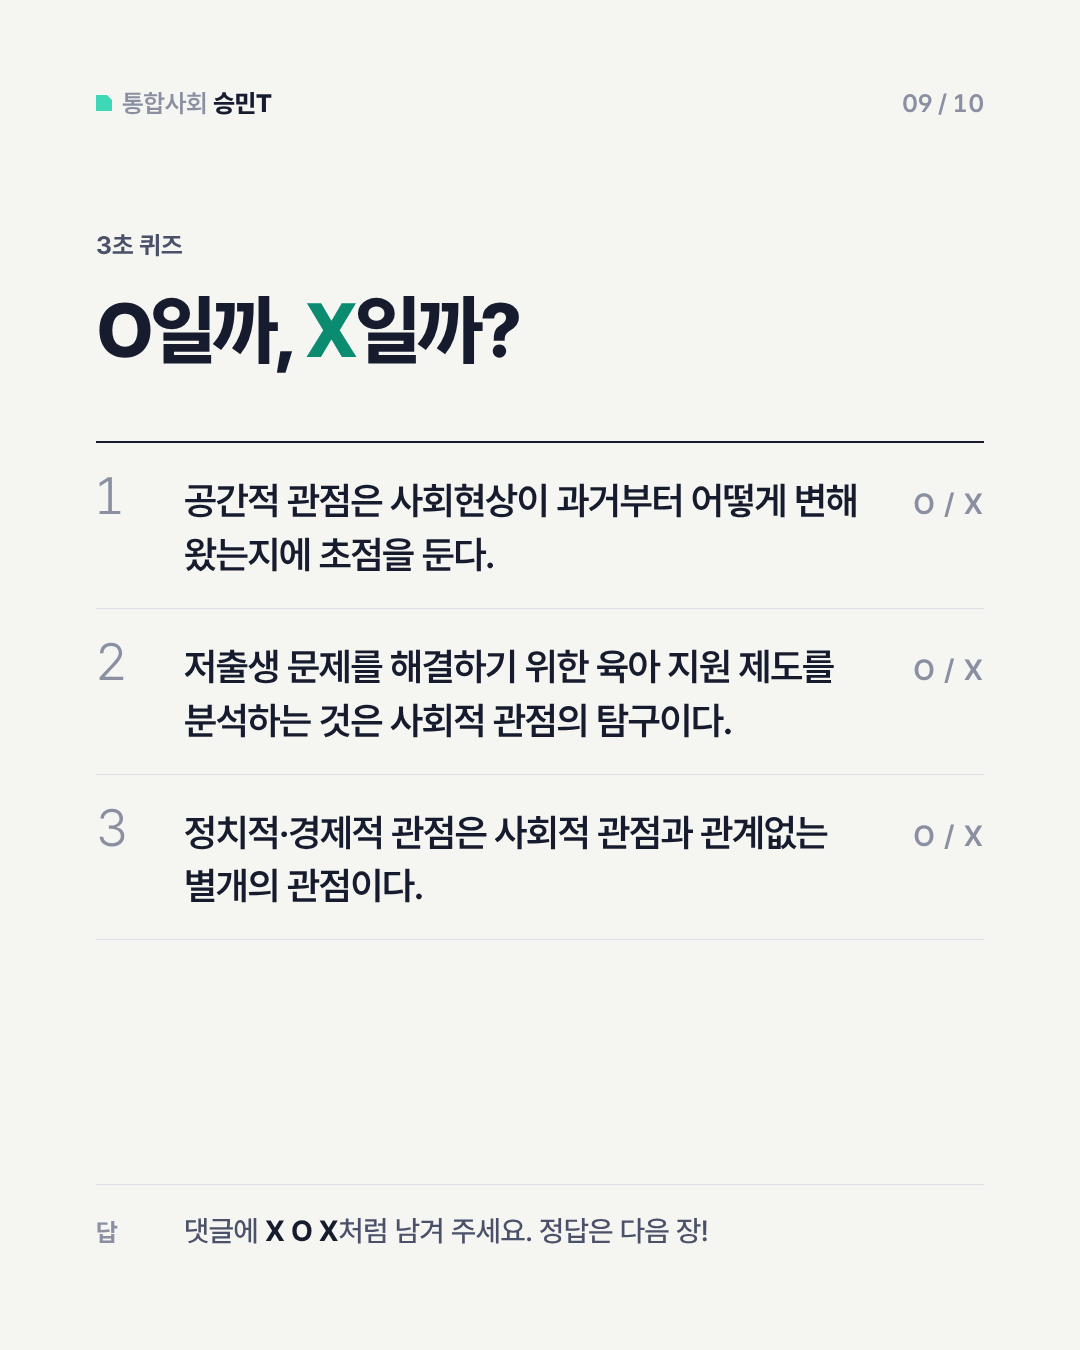
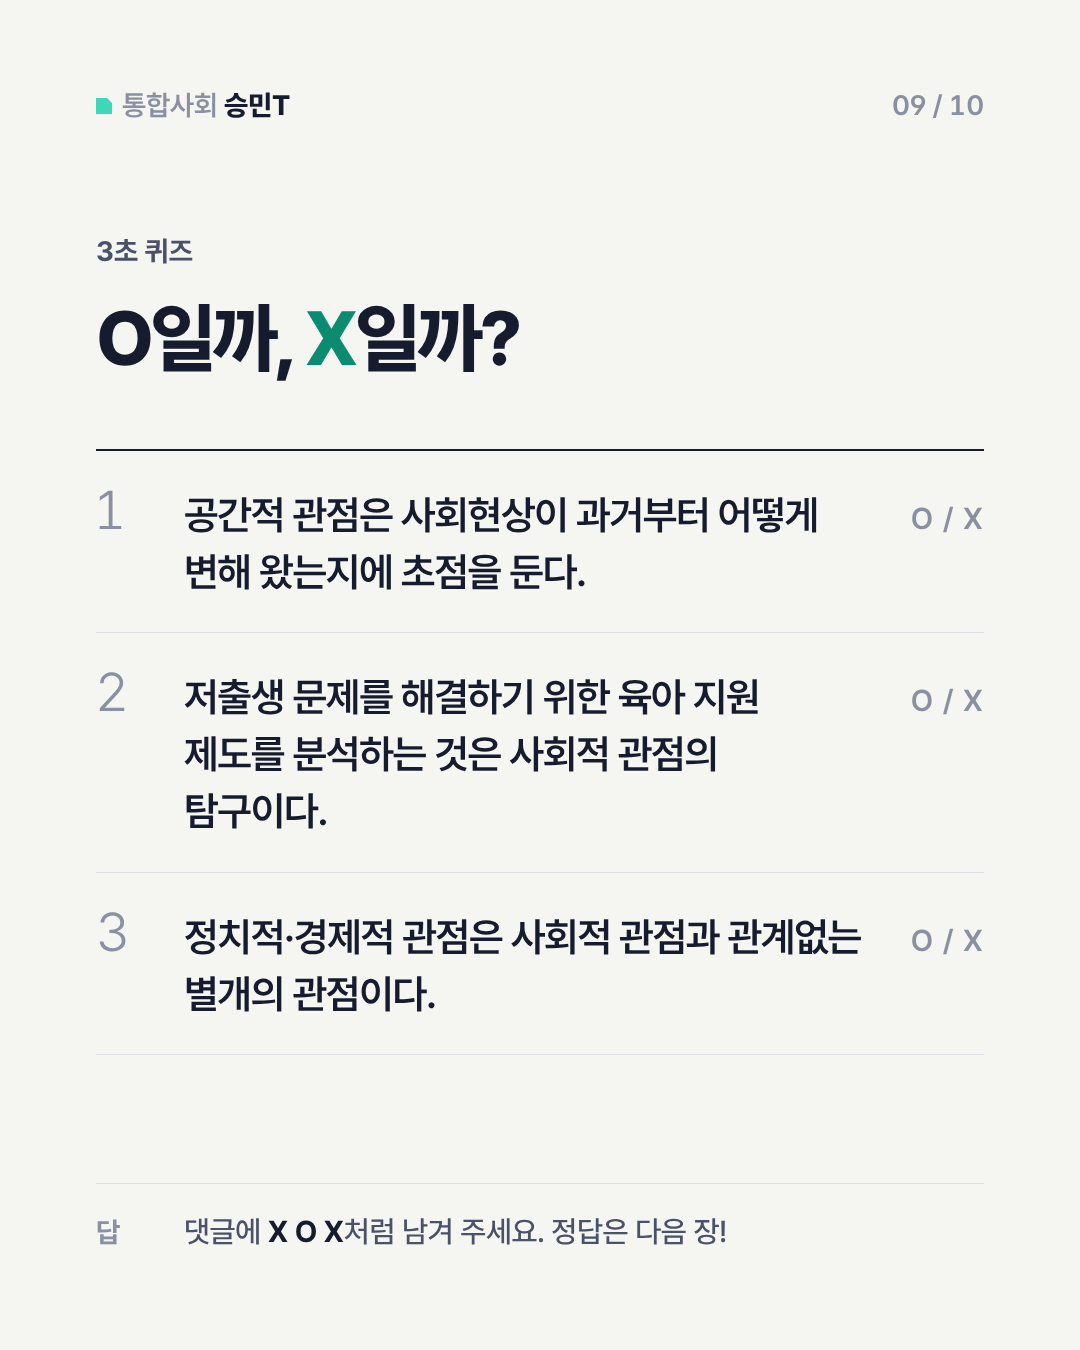
홍보 디자인 1차 보완: 휴대폰 가독성(최소 28px), 아래 여백 균형
Claude-Session: https://claude.ai/code/session_01QqEa9C6nUW3JGEF3tXupKg

diff --git a/홍보/out/cn01-네가지관점/index.html b/홍보/out/cn01-네가지관점/index.html
@@ -20,8 +20,8 @@
   --on-dark-2: #b9c1dc; --on-dark-3: #7c87ad; --rule-dark: #2c3a6e;
 
   /* 글자 크기 단계 (카드뉴스 1080 기준) */
-  --fs-display: 124px; --fs-title: 76px; --fs-big: 52px; --fs-lead: 38px;
-  --fs-body: 34px; --fs-small: 29px; --fs-label: 25px;
+  --fs-display: 124px; --fs-title: 76px; --fs-big: 54px; --fs-lead: 40px;
+  --fs-body: 36px; --fs-small: 30px; --fs-label: 28px;
   /* 여백 단계 */
   --sp-1: 12px; --sp-2: 24px; --sp-3: 40px; --sp-4: 64px; --sp-5: 96px;
 
@@ -74,7 +74,7 @@ b, strong { font-weight: 700; }
 /* 목록 줄: 맨 위 진한 선 1개 + 줄 사이 가는 선. 왼쪽 작은 이름, 오른쪽 내용. */
 .rows { border-top: 2px solid var(--ink); }
 .dark .rows { border-top-color: #fff; }
-.row { display: grid; grid-template-columns: var(--rl, 150px) 1fr; column-gap: var(--sp-2); padding: 24px 0 26px; border-bottom: 1px solid var(--rule); align-items: baseline; }
+.row { display: grid; grid-template-columns: var(--rl, 150px) 1fr; column-gap: var(--sp-2); padding: 30px 0 32px; border-bottom: 1px solid var(--rule); align-items: baseline; }
 .dark .row { border-bottom-color: var(--rule-dark); }
 .row > .k { font-size: var(--fs-label); font-weight: 700; color: var(--gray); }
 .row > .v { font-size: var(--fs-body); font-weight: 500; line-height: 1.5; letter-spacing: -0.03em; }
@@ -95,7 +95,7 @@ b, strong { font-weight: 700; }
 .dark .aside > .v b { color: #fff; }
 
 /* 출처 한 줄 */
-.source { font-size: 20px; color: var(--gray); line-height: 1.5; font-weight: 500; }
+.source { font-size: 24px; color: var(--gray); line-height: 1.5; font-weight: 500; }
 
 /* 상징: 모서리 하나 잘린 작은 네모. 채널 이름 앞과 표지에만. */
 .mark { display: inline-block; width: 16px; height: 16px; background: var(--mint); clip-path: polygon(0 0, calc(100% - 5px) 0, 100% 5px, 100% 100%, 0 100%); vertical-align: 1px; margin-right: 10px; }
@@ -142,8 +142,11 @@ b, strong { font-weight: 700; }
   /* 관점 */
   .persp .title { font-size: 104px; line-height: 1.1; }
   .p-q { margin-top: 32px; font-size: var(--fs-big); font-weight: 700; letter-spacing: -0.045em; line-height: 1.3; }
+  .persp .row { padding: 26px 0 28px; }
   .clues { font-weight: 700; }
   .clues i { font-style: normal; color: var(--gray); font-weight: 400; margin: 0 14px; }
+
+  .s8 .row { padding: 40px 0 42px; }
 
   /* 퀴즈 */
   .qz .row > .end { font-size: var(--fs-small); color: var(--gray); font-weight: 600; letter-spacing: 0.04em; padding-left: 24px; }
@@ -199,7 +202,7 @@ b, strong { font-weight: 700; }
     <div class="body"><div class="rows" style="--rl:64px"><div class="row three"><div class="k">01</div><div class="v">고령 인구가 해마다 어떻게 늘어 왔을까?</div><div class="end">시간적</div></div><div class="row three"><div class="k">02</div><div class="v">도시와 농촌의 고령화는 왜 차이가 날까?</div><div class="end">공간적</div></div><div class="row three"><div class="k">03</div><div class="v">노인 복지·연금 제도는 노인의 삶에 어떤 영향을 줄까?</div><div class="end">사회적</div></div><div class="row three"><div class="k">04</div><div class="v">노부모 부양은 누구의 책임이어야 할까?</div><div class="end">윤리적</div></div></div></div>
     <div class="aside push" style="--rl:64px"><div class="k">정리</div><div class="v">다루는 <b>소재</b>가 아니라 <b>초점</b>으로 구분함</div></div>
   </section>
-<section data-shot="08-함정" class="slide">
+<section data-shot="08-함정" class="slide s8">
     <div class="run"><span class="brandname"><i class="mark"></i>통합사회 <b>승민T</b></span><span class="pgno">08 / 10</span></div>
     <div class="head"><div class="eyebrow">헷갈림 주의</div><h2 class="title">자주 헷갈리는 것<br><span class="acc">3가지</span></h2></div>
     <div class="body"><div class="rows" style="--rl:64px"><div class="row big"><div class="k">1</div><div class="v">‘제도’가 보이면 무조건 사회적 관점?<small>제도의 효과를 <b>분석</b>하면 사회적, 제도가 옳은지 <b>평가</b>하면 윤리적 관점</small></div></div><div class="row big"><div class="k">2</div><div class="v">정치적·경제적 관점은 따로 있는 관점?<small>정치·경제는 <b>사회적 관점 안에</b> 들어감</small></div></div><div class="row big"><div class="k">3</div><div class="v">한 해의 분포 지도로 변화 추이를 알 수 있다?<small>한 해의 분포는 공간적 관점. <b>변화</b>를 보려면 여러 시기의 자료가 필요함(시간적)</small></div></div></div></div>

diff --git a/홍보/lib/brand.css b/홍보/lib/brand.css
@@ -20,8 +20,8 @@
   --on-dark-2: #b9c1dc; --on-dark-3: #7c87ad; --rule-dark: #2c3a6e;
 
   /* 글자 크기 단계 (카드뉴스 1080 기준) */
-  --fs-display: 124px; --fs-title: 76px; --fs-big: 52px; --fs-lead: 38px;
-  --fs-body: 34px; --fs-small: 29px; --fs-label: 25px;
+  --fs-display: 124px; --fs-title: 76px; --fs-big: 54px; --fs-lead: 40px;
+  --fs-body: 36px; --fs-small: 30px; --fs-label: 28px;
   /* 여백 단계 */
   --sp-1: 12px; --sp-2: 24px; --sp-3: 40px; --sp-4: 64px; --sp-5: 96px;
 
@@ -74,7 +74,7 @@ b, strong { font-weight: 700; }
 /* 목록 줄: 맨 위 진한 선 1개 + 줄 사이 가는 선. 왼쪽 작은 이름, 오른쪽 내용. */
 .rows { border-top: 2px solid var(--ink); }
 .dark .rows { border-top-color: #fff; }
-.row { display: grid; grid-template-columns: var(--rl, 150px) 1fr; column-gap: var(--sp-2); padding: 24px 0 26px; border-bottom: 1px solid var(--rule); align-items: baseline; }
+.row { display: grid; grid-template-columns: var(--rl, 150px) 1fr; column-gap: var(--sp-2); padding: 30px 0 32px; border-bottom: 1px solid var(--rule); align-items: baseline; }
 .dark .row { border-bottom-color: var(--rule-dark); }
 .row > .k { font-size: var(--fs-label); font-weight: 700; color: var(--gray); }
 .row > .v { font-size: var(--fs-body); font-weight: 500; line-height: 1.5; letter-spacing: -0.03em; }
@@ -95,7 +95,7 @@ b, strong { font-weight: 700; }
 .dark .aside > .v b { color: #fff; }
 
 /* 출처 한 줄 */
-.source { font-size: 20px; color: var(--gray); line-height: 1.5; font-weight: 500; }
+.source { font-size: 24px; color: var(--gray); line-height: 1.5; font-weight: 500; }
 
 /* 상징: 모서리 하나 잘린 작은 네모. 채널 이름 앞과 표지에만. */
 .mark { display: inline-block; width: 16px; height: 16px; background: var(--mint); clip-path: polygon(0 0, calc(100% - 5px) 0, 100% 5px, 100% 100%, 0 100%); vertical-align: 1px; margin-right: 10px; }

diff --git a/홍보/content/cn01-네가지관점.js b/홍보/content/cn01-네가지관점.js
@@ -112,7 +112,7 @@ export default function (H) {
     ['정치적·경제적 관점은 따로 있는 관점?', '정치·경제는 <b>사회적 관점 안에</b> 들어감'],
     ['한 해의 분포 지도로 변화 추이를 알 수 있다?', '한 해의 분포는 공간적 관점. <b>변화</b>를 보려면 여러 시기의 자료가 필요함(시간적)'],
   ];
-  pages.push({ name: '함정', html: `<section class="slide">
+  pages.push({ name: '함정', html: `<section class="slide s8">
     ${run(8, N)}
     ${head({ eyebrow: '헷갈림 주의', title: '자주 헷갈리는 것<br><span class="acc">3가지</span>' })}
     <div class="body">${rows(traps.map(([q, a], i) => [String(i + 1), `${q}<small>${a}</small>`]), { big: true, rl: '64px' })}</div>
@@ -153,8 +153,11 @@ export default function (H) {
   /* 관점 */
   .persp .title { font-size: 104px; line-height: 1.1; }
   .p-q { margin-top: 32px; font-size: var(--fs-big); font-weight: 700; letter-spacing: -0.045em; line-height: 1.3; }
+  .persp .row { padding: 26px 0 28px; }
   .clues { font-weight: 700; }
   .clues i { font-style: normal; color: var(--gray); font-weight: 400; margin: 0 14px; }
+
+  .s8 .row { padding: 40px 0 42px; }
 
   /* 퀴즈 */
   .qz .row > .end { font-size: var(--fs-small); color: var(--gray); font-weight: 600; letter-spacing: 0.04em; padding-left: 24px; }

diff --git a/홍보/디자인/진행.md b/홍보/디자인/진행.md
@@ -17,3 +17,4 @@
 - 비교 그림: `디자인/비교_전후.png`, 전체: `디자인/cn01_새디자인_10장.png`.
 
 ### 강사 확인 기다림
+- 조정 채팅 점검 반영: 휴대폰(폭 390pt) 가독성 — 가장 작은 글자 28px(이름표·쪽 번호), 설명 30px, 본문 36px, 출처 24px로 올림. 3~8장 아래 빈 곳은 줄 간격·글자 키워 균형 맞춤.
